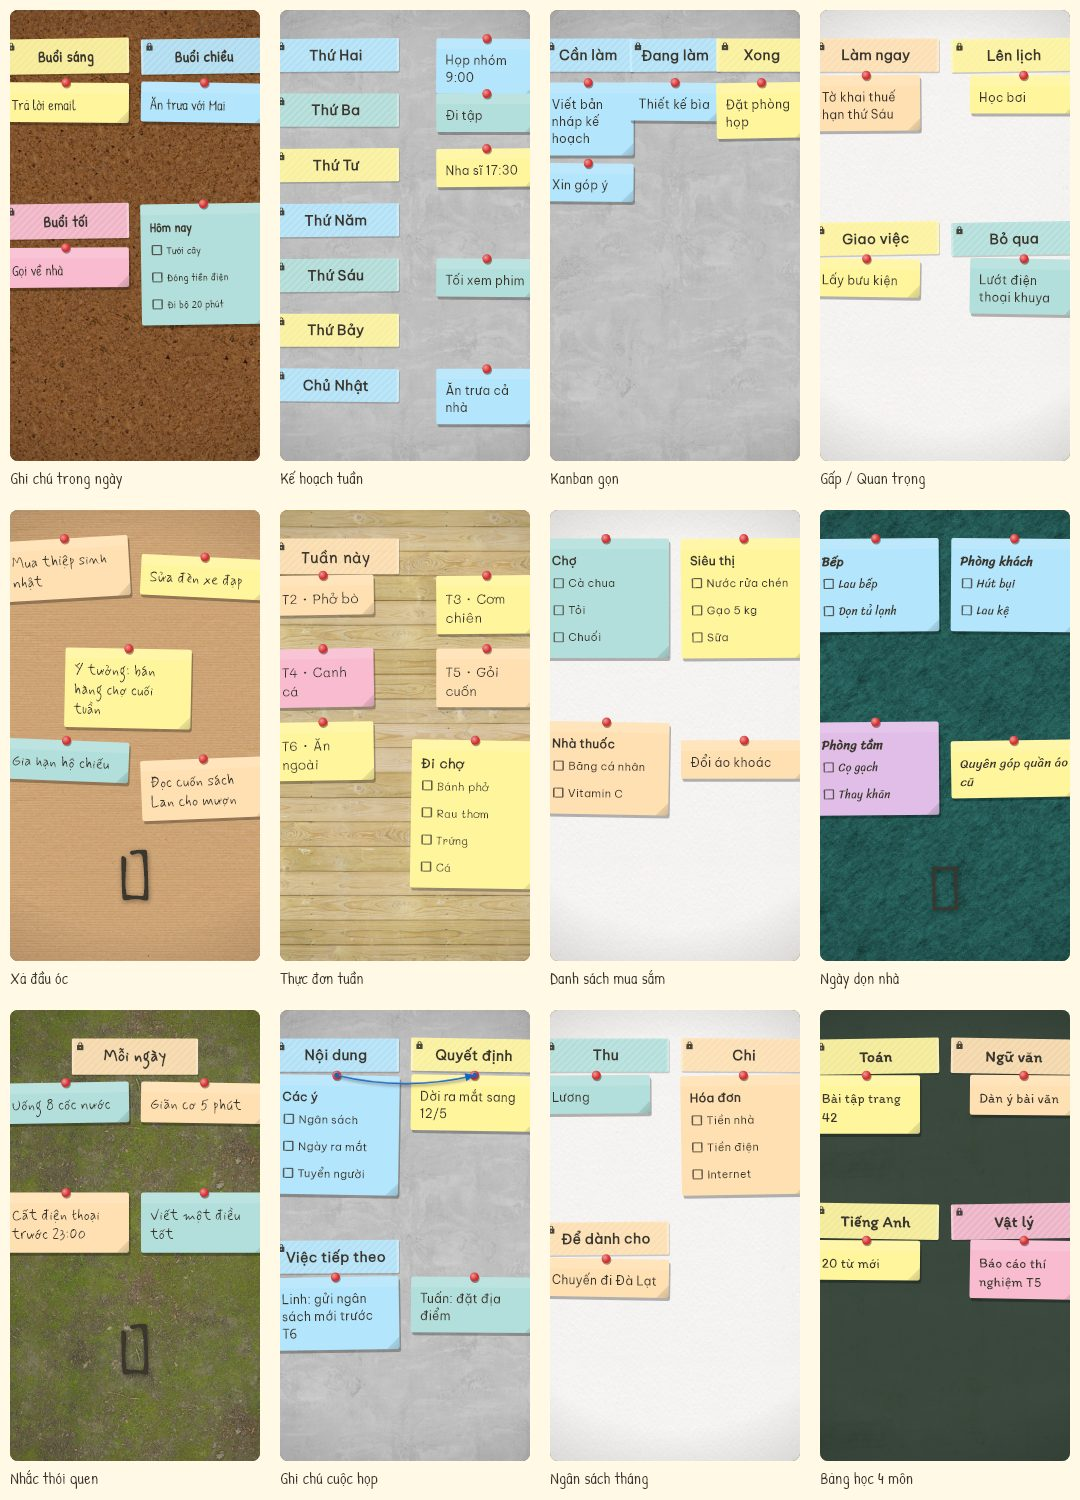
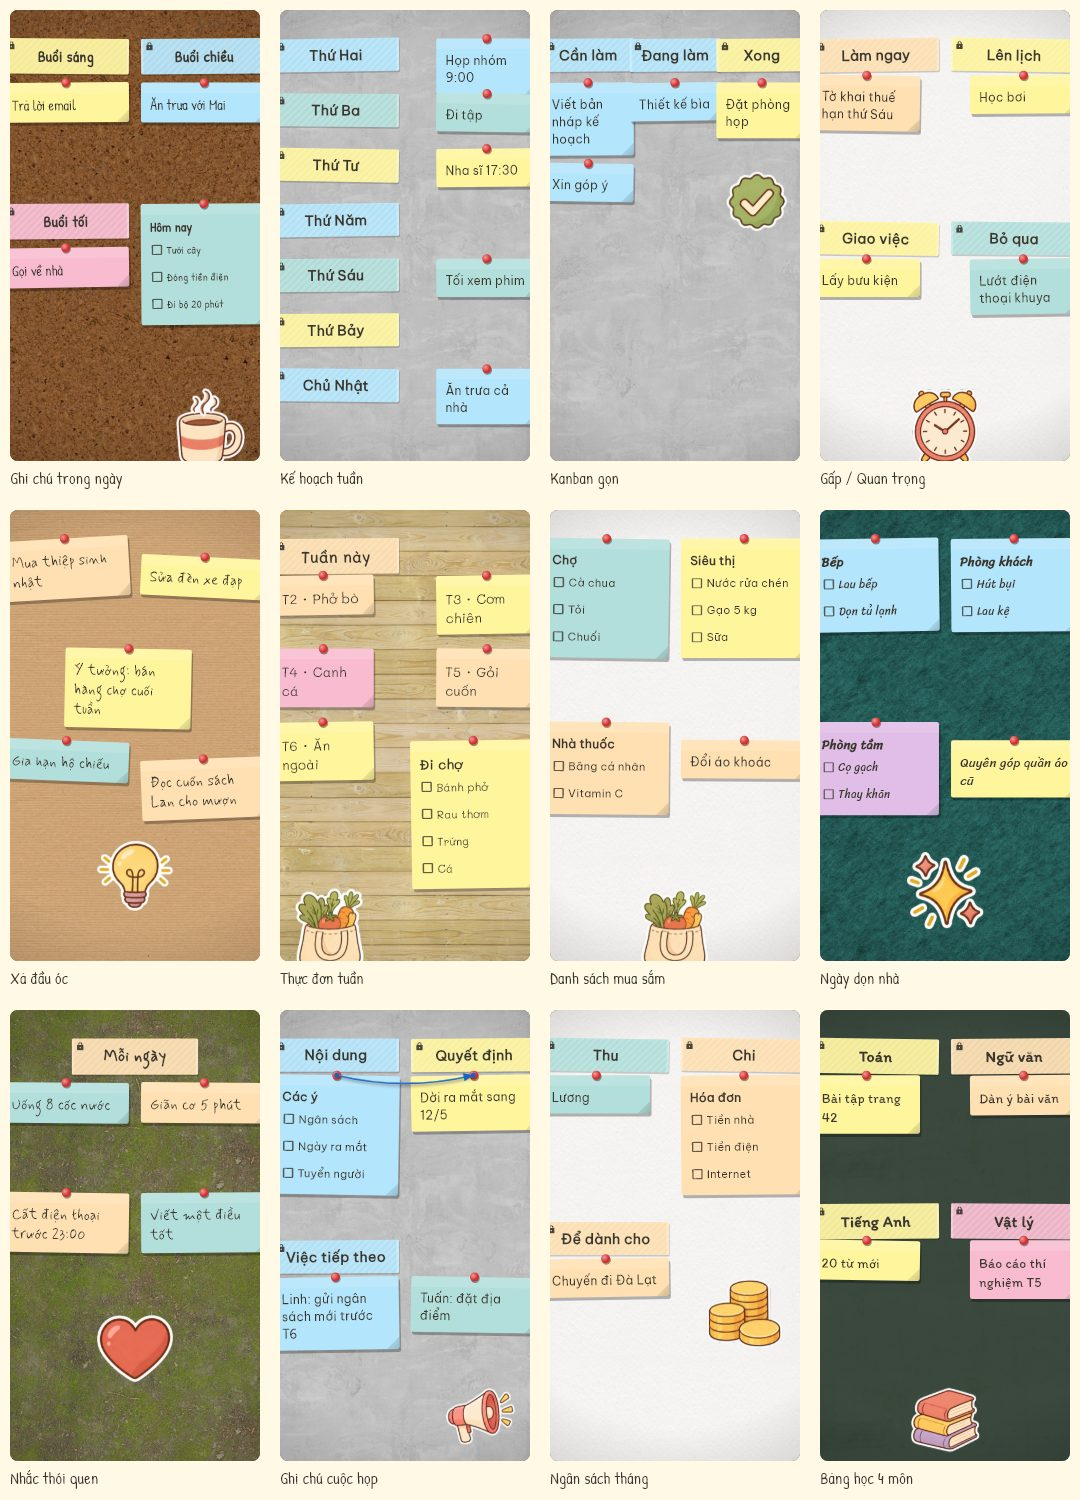
Templates carry the free illustrated stickers instead of emoji stand-ins; tapes sit long on the wall; stickers decode at a few fixed widths

diff --git a/test/library_sheet_test.dart b/test/library_sheet_test.dart
@@ -13,6 +13,7 @@ import 'package:sticky_wall/services/template_library.dart';
 import 'package:sticky_wall/services/theme_packs.dart';
 import 'package:sticky_wall/theme.dart';
 import 'package:sticky_wall/widgets/pro_sheet.dart';
+import 'package:sticky_wall/widgets/stickers.dart';
 
 import 'preview_fonts.dart';
 
@@ -25,10 +26,7 @@ Future<void> _sheet(
   String name,
   List<(Widget, String, bool)> cells,
 ) async {
-  tester.view.physicalSize = Size(
-    _cell.width * _cols,
-    _cell.height * _rows,
-  );
+  tester.view.physicalSize = Size(_cell.width * _cols, _cell.height * _rows);
   tester.view.devicePixelRatio = 1;
   addTearDown(tester.view.reset);
   await tester.pumpWidget(
@@ -88,6 +86,15 @@ Future<void> _sheet(
     for (final w in walls) {
       await precacheImage(AssetImage(w.asset), ctx);
     }
+    // Illustrated stickers, at every width they are decoded at.
+    for (final s in stickers.where((s) => s.kind == StickerKind.image)) {
+      for (var width = 128; width <= 384; width += 64) {
+        await precacheImage(
+          ResizeImage(AssetImage(s.asset), width: width),
+          ctx,
+        );
+      }
+    }
   });
   for (var i = 0; i < 6; i++) {
     await tester.pump(const Duration(milliseconds: 100));
@@ -110,8 +117,7 @@ void main() {
     testWidgets('templates ${page + 1}', skip: true, (tester) async {
       final slice = templates.skip(page * perSheet).take(perSheet);
       await _sheet(tester, 'templates_${page + 1}', [
-        for (final t in slice)
-          (TemplatePreview(template: t), t.name.vi, false),
+        for (final t in slice) (TemplatePreview(template: t), t.name.vi, false),
       ]);
     });
   }

diff --git a/lib/widgets/stickers.dart b/lib/widgets/stickers.dart
@@ -269,8 +269,11 @@ class StickerArt extends StatelessWidget {
         sticker.asset,
         fit: BoxFit.contain,
         filterQuality: FilterQuality.medium,
-        // Kept small in memory: the picker shows dozens at once.
-        cacheWidth: (width * MediaQuery.devicePixelRatioOf(context)).round(),
+        // Kept small in memory (the picker shows dozens at once), decoded at
+        // a few fixed widths so cards of every size share them.
+        cacheWidth: stickerCacheWidth(
+          width * MediaQuery.devicePixelRatioOf(context),
+        ),
         excludeFromSemantics: true,
         errorBuilder: (_, _, _) => const SizedBox.shrink(),
       ),
@@ -291,6 +294,11 @@ class StickerArt extends StatelessWidget {
     );
   }
 }
+
+/// The width an illustrated sticker is decoded at for [pixels] on screen:
+/// rounded up to a multiple of 64, between 128 and 384.
+int stickerCacheWidth(double pixels) =>
+    ((pixels / 64).ceil() * 64).clamp(128, 384);
 
 /// A rubber stamp: the word in heavy capitals inside a double rule, inked
 /// a little unevenly.

diff --git a/lib/widgets/note_views.dart b/lib/widgets/note_views.dart
@@ -1139,7 +1139,11 @@ class StickyNoteCard extends StatelessWidget {
         final room = constraints.maxWidth.isFinite
             ? constraints.maxWidth
             : 160.0;
-        final width = room * (sticker.kind == StickerKind.stamp ? 0.95 : 0.62);
+        // Stamps and tapes run long and low; the rest sit smaller.
+        final long =
+            sticker.kind == StickerKind.stamp ||
+            (sticker.kind == StickerKind.image && sticker.aspect < 0.6);
+        final width = room * (long ? 0.95 : 0.62);
         return Container(
           width: double.infinity,
           alignment: Alignment.center,

diff --git a/tool/gen_templates.py b/tool/gen_templates.py
@@ -552,6 +552,52 @@ T('back_to_school', 'seasonal', 'rainbow_school',
    C('Forms', 'Giấy tờ', [('Health form', 'Phiếu sức khỏe'), ('Bus card', 'Thẻ xe buýt')], 1.0, 0.0, 3),
    N('First day: Sept 5, 7:00', 'Khai giảng: 5/9, 7:00', 0.0, 0.55, 1), S('star', 1.0, 0.6)])
 
+# --- Illustrated stickers ------------------------------------------------
+# The emoji stand-ins give way to the illustrated stickers that come with
+# the free app, picked per board where one says more than a star.
+SWAP = {'star': 'art_star', 'heart': 'art_heart', 'check': 'art_check_badge'}
+SWAP_IN = {
+    ('brain_dump', 'star'): 'art_lightbulb',
+    ('cleaning_day', 'star'): 'art_sparkle',
+    ('budget_month', 'star'): 'art_coin_stack',
+    ('moodboard', 'star'): 'art_sparkle',
+    ('vision_board', 'heart'): 'art_rainbow',
+    ('goal_wall', 'star'): 'art_trophy_cup',
+    ('milestones', 'heart'): 'art_heart_envelope',
+    ('workout_week', 'check'): 'art_trophy_cup',
+    ('birthday_ideas', 'heart'): 'art_gift_box',
+    ('travel_ideas', 'heart'): 'art_sun_cloud',
+    ('christmas_wishes', 'star'): 'art_gift_box',
+    ('back_to_school', 'star'): 'art_graduation_cap',
+    ('valentine_memories', 'heart'): 'art_heart_envelope',
+}
+# One more where the board has room for it, out of the notes' way.
+EXTRA = {
+    'daily_notes': ('art_coffee_mug', 1.0, 0.95, 0.9),
+    'urgent_important': ('art_alarm_clock', 0.5, 0.95, 0.9),
+    'meal_plan': ('art_shopping_bag', 0.0, 0.95, 0.9),
+    'shopping_board': ('art_shopping_bag', 0.5, 0.95, 0.9),
+    'meeting_notes': ('art_megaphone', 1.0, 0.95, 0.9),
+    'four_subjects': ('art_books', 0.5, 0.95, 0.9),
+    'class_timetable': ('art_graduation_cap', 1.0, 0.95, 0.9),
+    'exam_countdown': ('art_alarm_clock', 0.5, 0.97, 0.8),
+    'revision_plan': ('art_notebook', 0.5, 0.7, 0.9),
+    'language_notes': ('art_books', 0.5, 0.92, 0.9),
+    'brainstorm': ('art_lightbulb', 0.5, 0.13, 0.7),
+    'color_palette': ('art_rainbow', 0.5, 0.75, 1.0),
+    'family_reminders': ('art_house', 0.0, 0.8, 0.9),
+    'recipe_board': ('art_tea', 0.5, 0.92, 0.9),
+    'garden_plan': ('art_watering_can', 1.0, 0.6, 1.0),
+    'homework_wall': ('art_pencil', 0.0, 0.92, 0.9),
+}
+for t in TEMPLATES:
+    for item in t['items']:
+        if item['kind'] == 'sticker':
+            item['sticker'] = SWAP_IN.get((t['id'], item['sticker']), SWAP.get(item['sticker'], item['sticker']))
+    if t['id'] in EXTRA:
+        sid, x, y, sc = EXTRA[t['id']]
+        t['items'].append(S(sid, x, y, sc))
+
 if __name__ == '__main__':
     ids = [t['id'] for t in TEMPLATES]
     assert len(ids) == len(set(ids)), 'duplicate ids'
